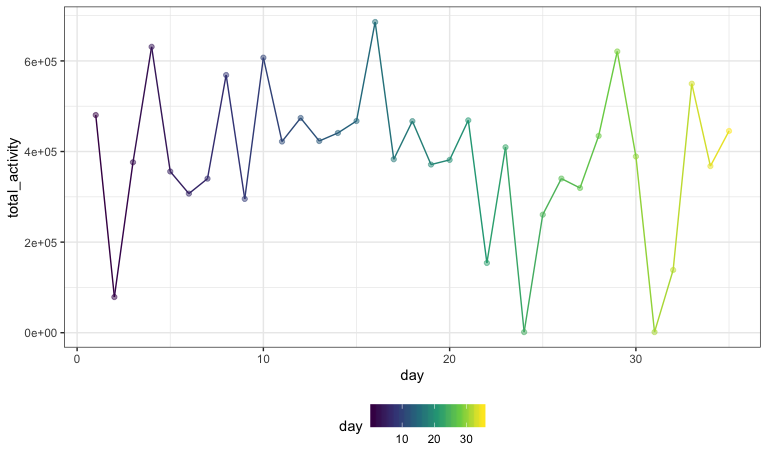
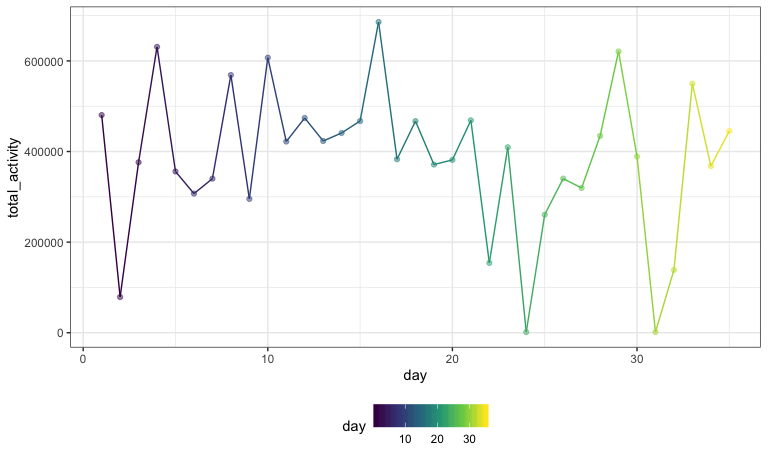
lteration for y-axis labels of the plot in Problem 3 (question 2)

diff --git a/p8105-hw3_rw2708.md b/p8105-hw3_rw2708.md
@@ -410,7 +410,7 @@ weekday or a weekend when the accelerometer data was collected.
 analysis_activity = P3_data %>% 
   group_by(week,day_id) %>% 
   summarise(total_activity = sum(activity_counts))
- 
+
  knitr::kable(analysis_activity,digits = 2)
 ```
 
@@ -461,13 +461,19 @@ trend_activity = analysis_activity %>%
   mutate(day = day_id) %>% 
   ggplot(aes(x = day, y = total_activity)) +
   geom_point(aes(color = day), alpha = 0.5) +
-  geom_line(aes(color = day))
-  
+  geom_line(aes(color = day)) +
+  scale_y_continuous(
+    # alteration for y-axis labels
+    breaks = c(0, 200000, 400000, 600000),
+    labels = c("0", "200000", "400000", "600000")
+  ) 
+
 
 trend_activity
 ```
 
 <img src="p8105-hw3_rw2708_files/figure-gfm/P3_question2-1.png" width="90%" />
+
 There is no clear trend of a total activity variable for each day since
 the total activity fluctuate greatly across the day.
 
